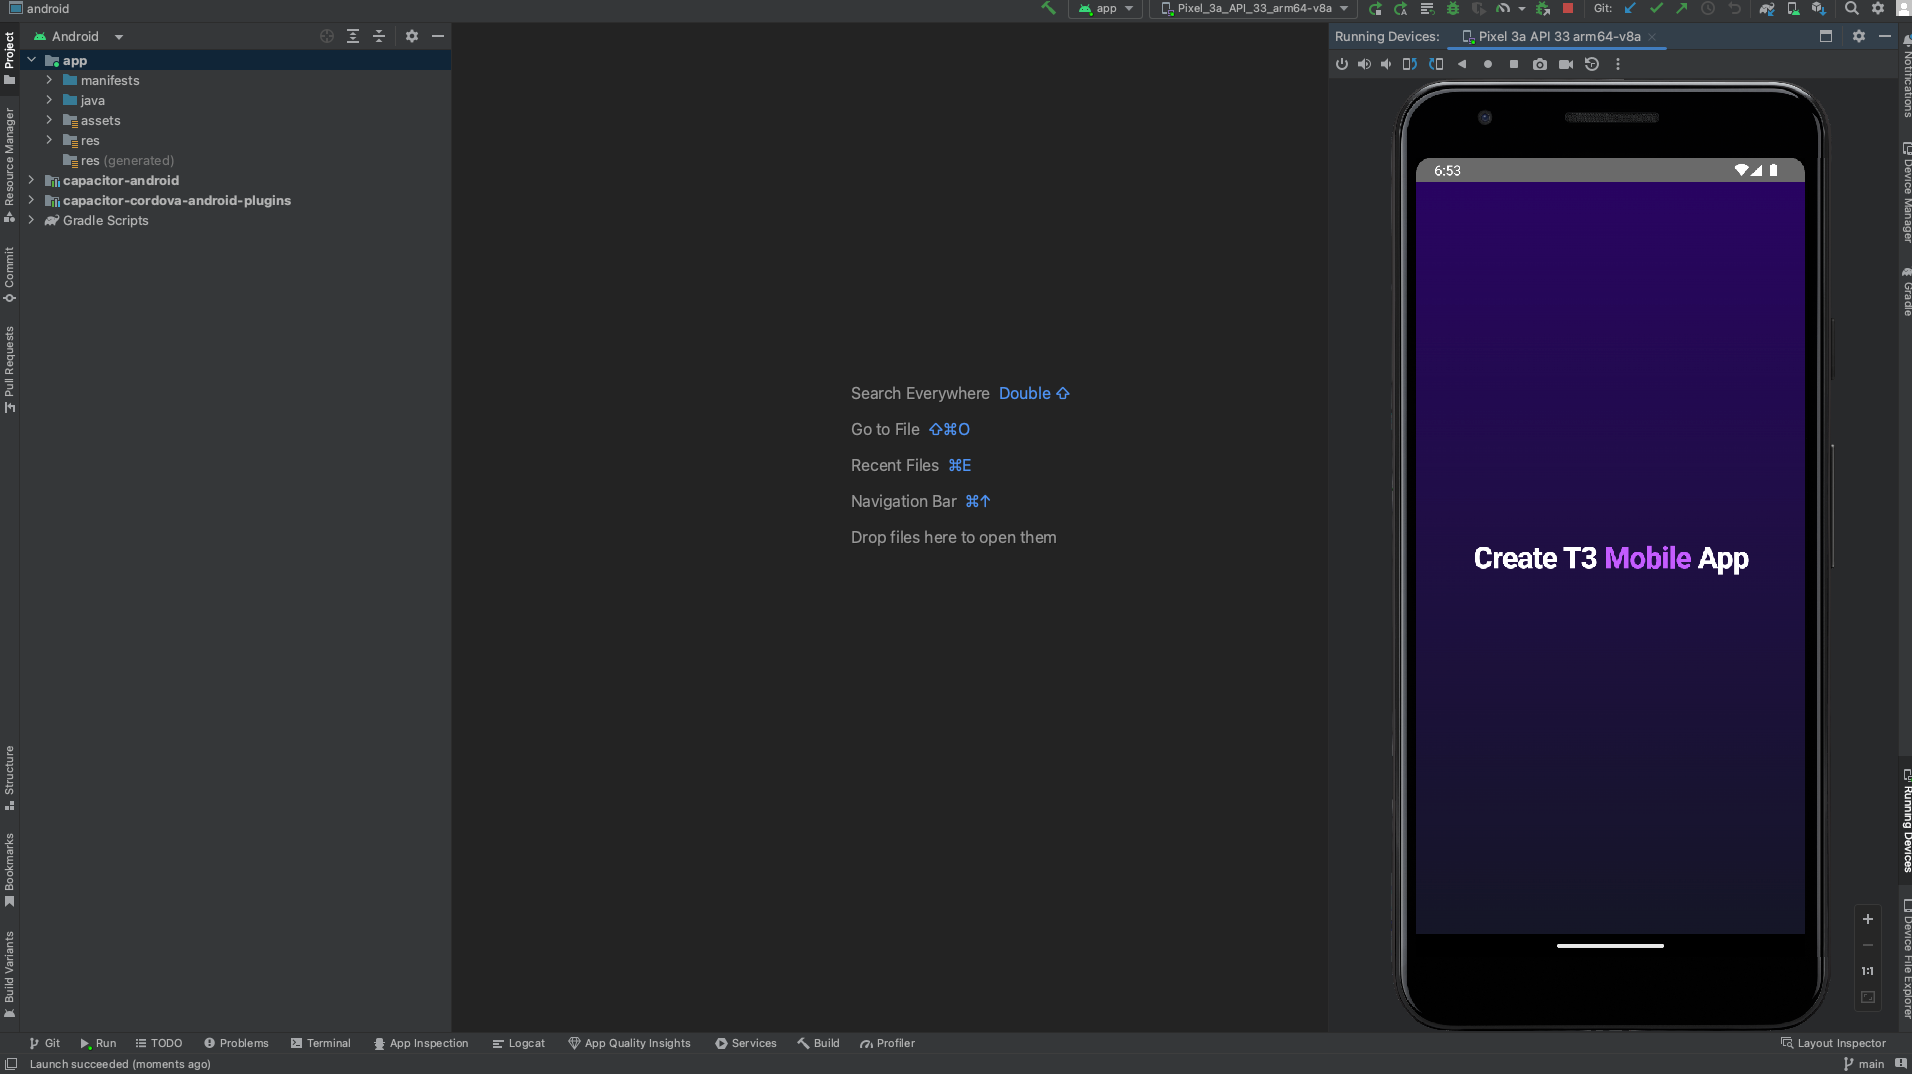
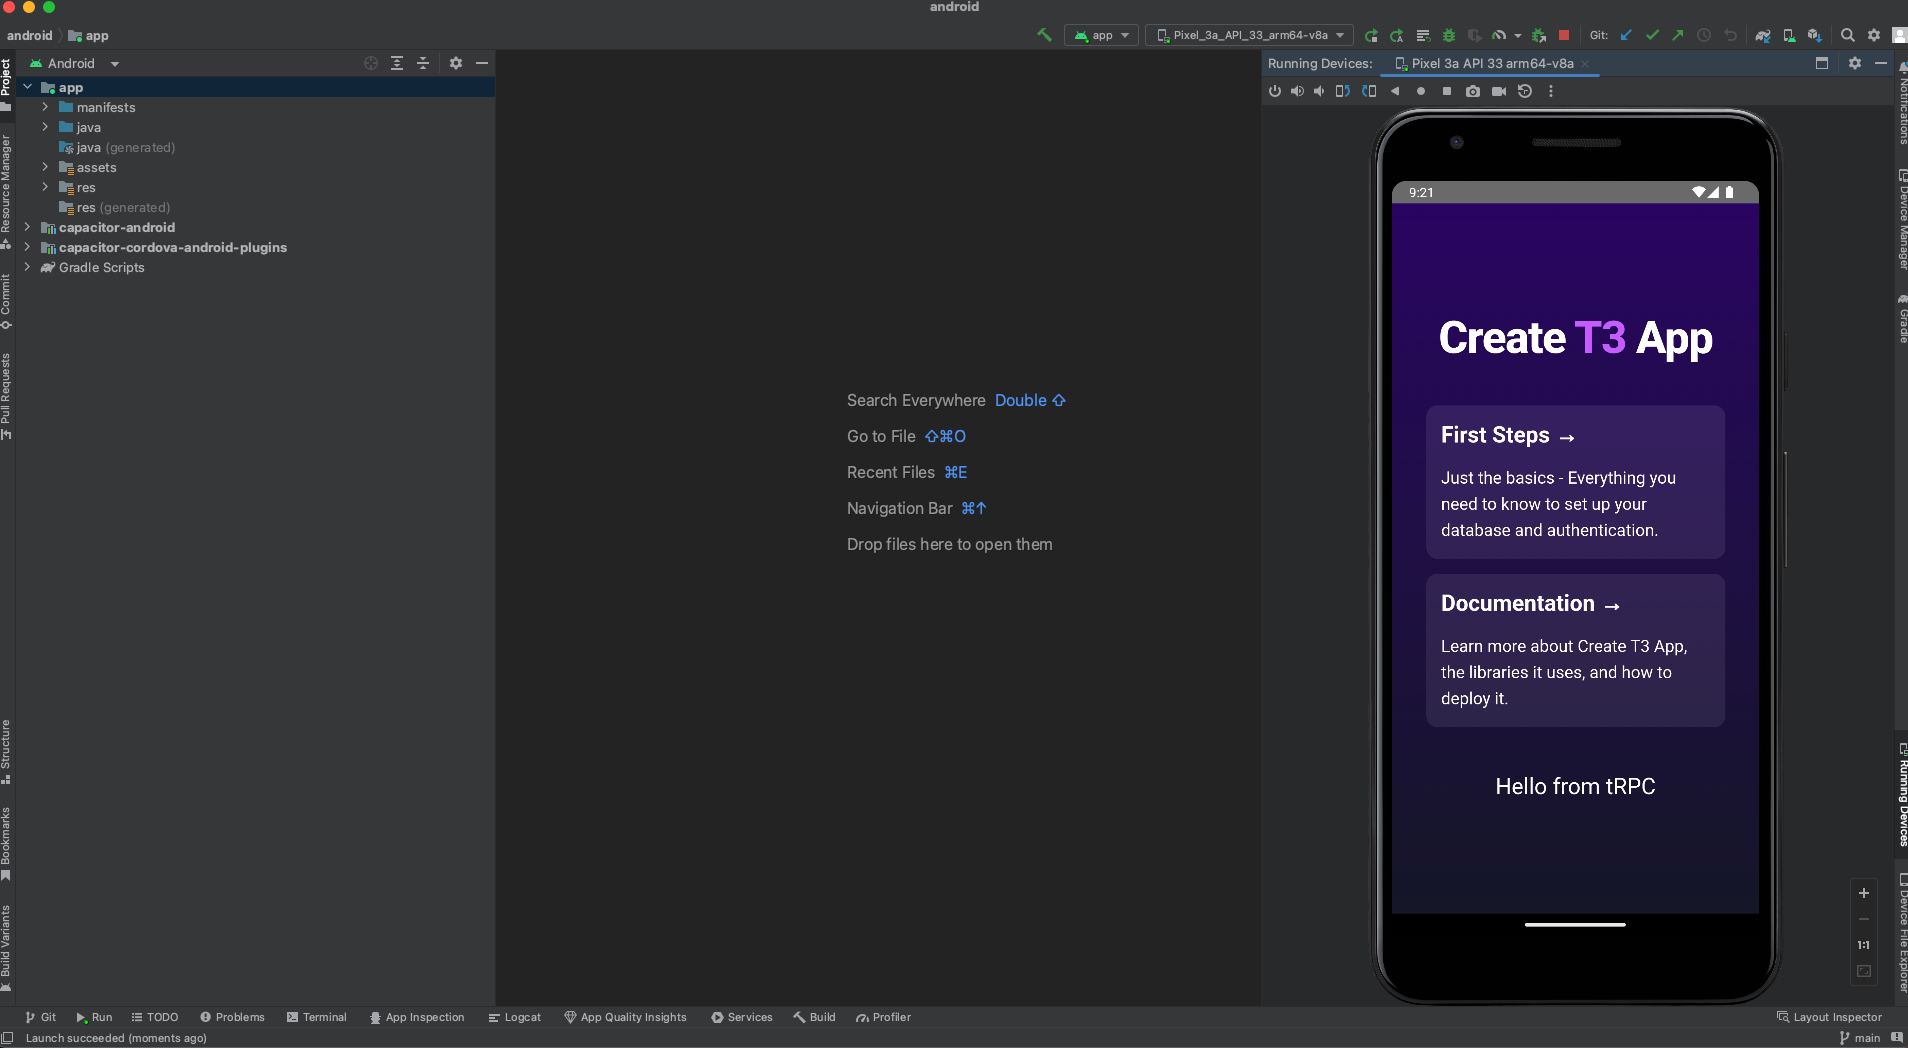
update readme

diff --git a/capacitor.config.ts b/capacitor.config.ts
@@ -7,8 +7,8 @@ const config: CapacitorConfig = {
   server: {
     androidScheme: "https",
     // For communicate with the server Next.js application with tRPC must be deployed, for example if you are using
-    // Vercel, url should be set to the domain YOURAPP.vercel.app
-    url: "",
+    // Vercel, url should be set to the domain https://YOURAPP.vercel.app
+    url: "https://YOUR_APP.vercel.app",
   },
 };
 

diff --git a/README.md b/README.md
@@ -9,11 +9,31 @@ In addition, this repo added support to generate hybrid iOS and Android apps usi
 
 <div style="display:flex; flex-direction:row; padding: 5px;">
     <div style="display: flex; width: fit-content;"><img src="https://github.com/emadgit/create-t3-mobile-app/blob/main/public/ios.png" style="width: fit-content;" /></div>
+    <div style="display: flex; width: fit-content;"><img src="https://github.com/emadgit/create-t3-mobile-app/blob/main/public/android.png" style="width: fit-content;" /></div>
+
 </div>
 
 So you do your usual T3 development to make your awesome app, once you'r happy with it, maybe you wanna publish your app also for mobile users. Here are the steps you need to do: 
 
-You need to run `sudo gem install cocoapods` in order to be able to use Capacitor on iOS. Once cocoapods installed, then follow these steps:
+You need to run `sudo gem install cocoapods` in order to be able to use Capacitor on iOS.
+
+For communicate with the server from the mobile apps, Next.js application with tRPC must be deployed, then you need to set your server url domain in `capacitor.config.ts` file. Here is an example for the config file:
+
+```
+const config: CapacitorConfig = {
+  appId: "com.example.myt3mobileapp",
+  appName: "myt3mobileapp",
+  webDir: "out",
+  server: {
+    androidScheme: "https",
+    // For communicate with the server Next.js application with tRPC must be deployed, for example if you are using
+    // Vercel, url should be set to the domain https://YOURAPP.vercel.app
+    url: "https://YOUR_APP.vercel.app",
+  },
+};
+```
+
+Now, you are ready to build the mobile apps, you can follow these steps to do so:
 
 - `pnpm build:mobile` -> This will generate an `out` folder.
 - For Android, you need to run `pnpm make:android` -> This will create an `android` folder which is a nice and clean android project you can use in Android studio.
@@ -40,21 +60,3 @@ There's a `capacitor.config.ts` file in the root folder where you can set high-l
 - `androidScheme` -> Configure the local scheme on Android. Default is `http`.
 
 For more information see the [Capacitor Docs](https://capacitorjs.com/docs/config#schema)
-
-# tRPC notes
-
-For communicate with the server from the mobile apps, Next.js application with tRPC must be deployed, then you need to set your server url domain in `capacitor.config.ts`. here is an example for the config file:
-
-```
-const config: CapacitorConfig = {
-  appId: "com.example.myt3mobileapp",
-  appName: "myt3mobileapp",
-  webDir: "out",
-  server: {
-    androidScheme: "https",
-    // For communicate with the server Next.js application with tRPC must be deployed, for example if you are using
-    // Vercel, url should be set to the domain YOURAPP.vercel.app
-    url: "YOURAPP.vercel.app",
-  },
-};
-```
